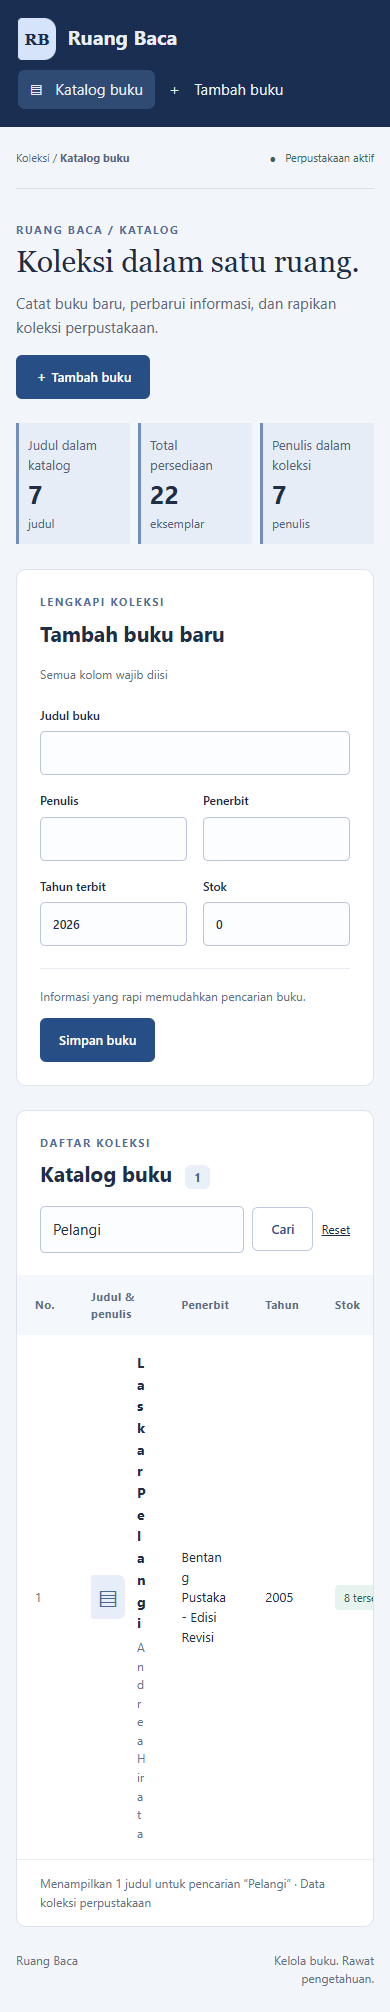
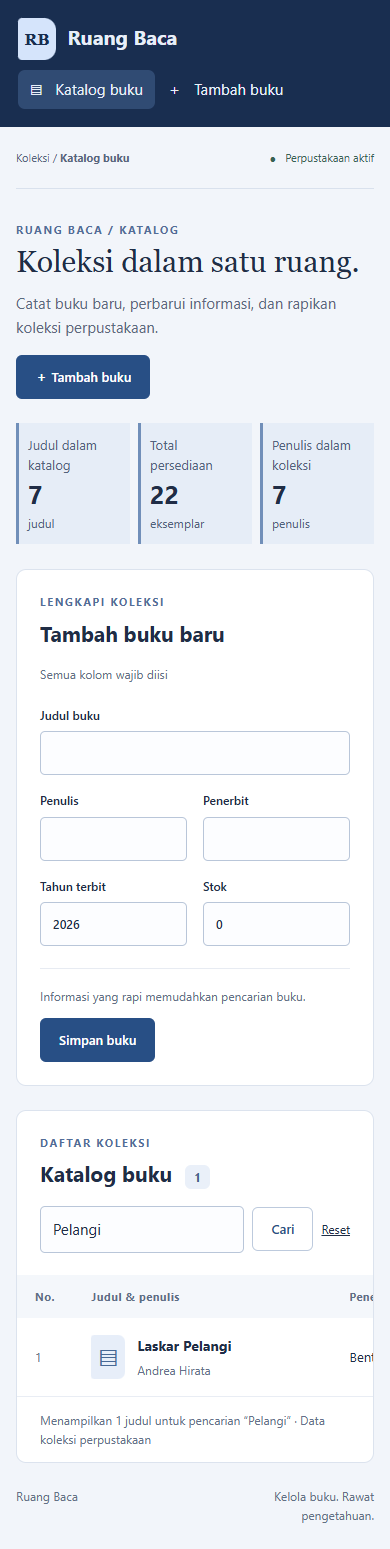
Rapikan tabel ponsel dan tetapkan format berkas biner

diff --git a/assets/style.css b/assets/style.css
@@ -1,1 +1,4 @@
 *{box-sizing:border-box}html{scroll-behavior:smooth}body{margin:0;background:#f2f5fa;color:#202d46;font:15px/1.55 "Segoe UI",Arial,sans-serif}a{color:inherit;text-decoration:none}button,input{font:inherit}button,a{touch-action:manipulation}a:focus-visible,button:focus-visible,input:focus-visible{outline:3px solid #ca8b22;outline-offset:3px}.sidebar{position:fixed;inset:0 auto 0 0;width:238px;background:#192e50;color:#e8eff9;padding:32px 24px}.brand{display:block;font-size:23px;font-weight:700}.logo{display:inline-grid;place-items:center;width:38px;height:42px;background:#d5e4fb;color:#192e50;border-radius:4px 12px 12px 4px;margin-right:6px;font:700 16px Georgia}.subbrand{display:block;font-size:10px;letter-spacing:2px;margin:12px 0 44px;color:#bdcce3}.nav-label,.eyebrow{font-size:11px;font-weight:700;letter-spacing:1.6px}.nav-label{color:#b0c2dd}.nav{display:block;padding:13px 12px;margin:8px 0;border-radius:7px}.nav.active{background:#304b73}.side-note{margin-top:65px;border-top:1px solid #476080;padding-top:27px;font:italic 24px/1.4 Georgia}.side-note span{display:block;font:13px/1.7 "Segoe UI",sans-serif;color:#c4d2e6;margin-top:14px}.side-footer{position:absolute;bottom:26px;font-size:9px;letter-spacing:1px}main{margin-left:238px;padding:0 42px;max-width:1800px}header{display:flex;justify-content:space-between;padding:22px 0;border-bottom:1px solid #d9e1ed;font-size:13px;color:#58667d}.status{color:#386254}.intro{display:flex;justify-content:space-between;align-items:center;padding:32px 0 24px}.eyebrow{color:#526d98;margin:0 0 6px}h1{font:normal 38px/1.2 Georgia,serif;margin:6px 0 12px}h2{font-size:21px;margin:0}.intro p:last-child{color:#5c6980;margin:0}.button{border:1px solid transparent;border-radius:6px;background:#284f85;color:white;display:inline-flex;align-items:center;justify-content:center;min-height:44px;padding:10px 18px;font-weight:600;font-size:13px;cursor:pointer}.button:hover{background:#1c3d6b}.secondary{color:#284f85;background:#fff;border-color:#bdcadd}.secondary:hover{background:#eaf0fa}.stats{display:grid;grid-template-columns:repeat(3,1fr);gap:18px;margin-bottom:25px}.stats>div{background:#e6edf7;border-left:3px solid #718fb9;padding:15px 22px}.stats span{display:block;font-size:13px;color:#52637c}.stats strong{display:block;font-size:30px}.stats small{font-size:12px;font-weight:400;color:#52637c}.panel{background:white;border:1px solid #dce3ee;border-radius:10px;padding:23px;margin-bottom:24px;scroll-margin-top:15px}.section-heading{display:flex;align-items:center;justify-content:space-between;gap:16px;margin-bottom:22px}.muted{color:#637086;font-size:12px}.fields{display:grid;grid-template-columns:2fr 1.4fr 1.4fr .8fr .7fr;gap:16px}label{display:block;font-size:12px;font-weight:600}input{display:block;background:#fcfdff;border:1px solid #b9c6d9;border-radius:5px;padding:11px 12px;width:100%;min-height:44px;color:#202d46;margin-top:7px}.form-footer{display:flex;align-items:center;justify-content:space-between;gap:12px;margin-top:22px;padding-top:18px;border-top:1px solid #e7ebf2}.catalog{padding:23px 0 0;overflow:hidden}.catalog .section-heading{padding:0 23px}.count{display:inline-block;background:#eaf0f9;color:#46648c;border-radius:6px;font-size:12px;padding:3px 9px;vertical-align:middle;margin-left:7px}.search{display:flex;gap:8px;align-items:center}.search input{margin:0;min-width:260px}.reset{font-size:12px;text-decoration:underline}.table-wrap{overflow:auto}table{width:100%;border-collapse:collapse;text-align:left;font-size:13px}th{background:#f4f7fb;font-size:11px;letter-spacing:.5px;color:#5e6e87;padding:13px 18px}td{padding:17px 18px;border-bottom:1px solid #e9edf4;max-width:380px;overflow-wrap:anywhere}.book-cell{display:flex;align-items:center;gap:12px}.book-cell strong{font-size:14px;display:block}.book-cell div>span{display:block;color:#64718a;font-size:12px;margin-top:4px}.book-icon{display:grid;place-items:center;background:#e7eef9;color:#476895;min-width:34px;height:44px;border-radius:3px 7px 7px 3px;font-size:24px}.stock{display:inline-block;white-space:nowrap;background:#e7f3ef;color:#27634e;padding:4px 9px;border-radius:4px;font-size:11px}.stock.empty{background:#faeee2;color:#875421}.actions{display:flex;gap:8px}.actions a{display:inline-flex;align-items:center;min-height:44px;padding:6px 12px;border:1px solid #cbd8e9;border-radius:5px;color:#284f85}.actions .delete-link{color:#a33e48;border-color:#eed0d4}.actions a:hover{background:#f0f4fa}.table-footer{padding:14px 23px;font-size:12px;color:#64718a}footer{display:flex;justify-content:space-between;padding:0 0 24px;font-size:12px;color:#637086}.notice{padding:14px 20px;background:#e1f2e9;border:1px solid #add7c1;color:#235c42;border-radius:6px;margin-bottom:20px}.notice.error{background:#fff1ef;border-color:#e8b3ac;color:#863b32}.danger-panel{border-left:4px solid #aa3f4b}.danger{background:#a33e48}.danger:hover{background:#822c35}.sr-only{position:absolute;width:1px;height:1px;overflow:hidden;clip:rect(0,0,0,0)}.empty-state{text-align:center;padding:40px}@media(max-width:1150px){.sidebar{width:200px;padding:25px 18px}main{margin-left:200px;padding:0 24px}.fields{grid-template-columns:repeat(3,1fr)}.section-heading{align-items:flex-start;flex-wrap:wrap}h1{font-size:32px}}@media(max-width:700px){.sidebar{position:static;width:auto;padding:18px}.brand{font-size:20px}.subbrand,.nav-label,.side-note,.side-footer{display:none}.nav{display:inline-block;margin:10px 0 0;padding:8px 12px}main{margin:0;padding:0 16px}header{font-size:11px}.intro{align-items:flex-start;gap:16px;flex-direction:column}h1{font-size:30px}.stats{gap:8px}.stats>div{padding:12px 9px}.stats strong{font-size:25px}.stats small{display:block}.fields{grid-template-columns:1fr 1fr}.fields label:first-child{grid-column:1/-1}.form-footer{align-items:flex-start;flex-direction:column}.search{width:100%;flex-wrap:wrap}.search input{min-width:0;flex:1}footer span{max-width:170px;text-align:right}.status{white-space:nowrap}}@media(prefers-reduced-motion:reduce){html{scroll-behavior:auto}}
+
+@media(max-width:700px){table{min-width:850px}.book-cell{min-width:220px}.table-wrap{overscroll-behavior-x:contain}}
+
